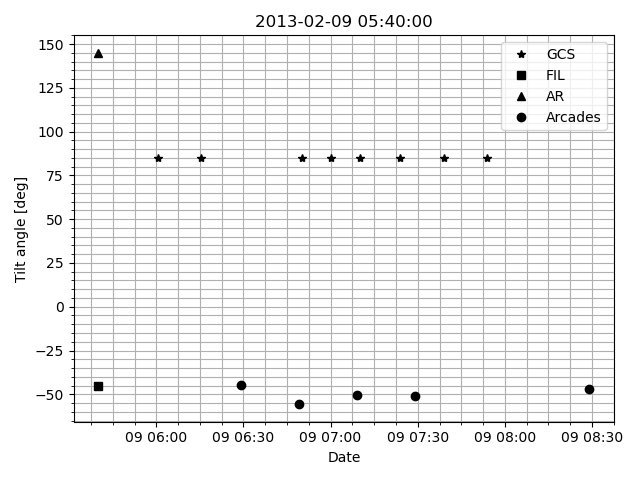
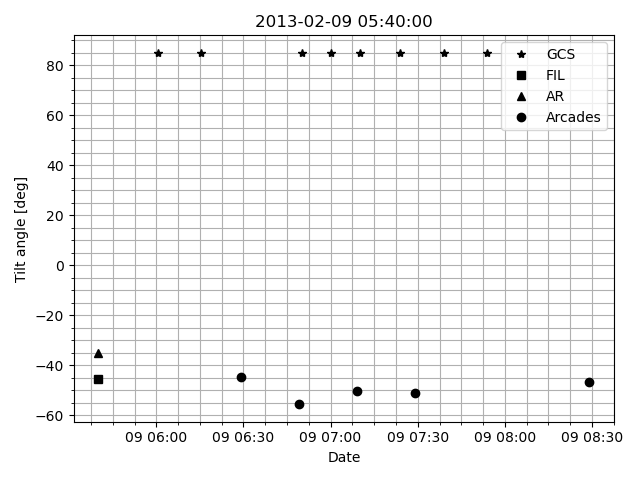
fixed tilt plot

Changed region(s): [[0.0625, 0.5, 0.9688, 0.875], [0.0625, 0.0625, 0.7812, 0.2812], [0.0625, 0.3125, 0.9688, 0.4688]]

diff --git a/tools/iglesias/compare_all_prop.py b/tools/iglesias/compare_all_prop.py
@@ -164,8 +164,8 @@ for cd in gcs_dates:
     plt.close()
 
 # tilt angles
-gcs_ind_to_use=-1 # which gcs value to use in the scatter plot, -1 is the last one in time
-arcade_ind_to_use=-1 # which arcade value to use in the scatter plot, -1 is the last one in time
+gcs_ind_to_use=0#-1 # which gcs value to use in the scatter plot, -1 is the last one in time
+arcade_ind_to_use=0#-1 # which arcade value to use in the scatter plot, -1 is the last one in time
 
 df_ar['datetimes'] = pd.to_datetime(df_ar['Date'], format='%d/%m/%Y')
 gcs_vs_ar_val = []
@@ -200,6 +200,11 @@ for d in df_fil['date']:
         if len(y2) > 0:
             y2 = np.array(y2).astype(float)[0]
             y2 += correct_ang(np.median(y2),np.median(gcs_val), do=do_tilt_corr)
+            # put y2 in -90 to 90 range
+            if y2 > 90:
+                y2 = y2 - 180
+            if y2 < -90:
+                y2 = y2 + 180
             plt.plot(x2, y2, '^k', label='AR')
             gcs_vs_ar_val.append([gcs_val[arcade_ind_to_use], y2, d_str])
             #gcs_times = np.concatenate((gcs_times, [i.to_pydatetime() for i in x2]), axis=None)
@@ -254,6 +259,14 @@ plt.scatter(gcs_vs_ar_val_arr[:, 1], gcs_vs_ar_val_arr[:, 0], color='r', label='
 plt.scatter(gcs_vs_fil_all_arr[:, 1], gcs_vs_fil_all_arr[:, 0], color='b', label='gcs vs fil')
 plt.scatter(gcs_vs_arcades_all_arr[:, 1], gcs_vs_arcades_all_arr[:, 0], color='g', label='gcs vs arcades')
 
+plt.xlabel('fil/ar/arcade [deg]')
+plt.ylabel('gcs [deg]') 
+plt.tight_layout()
+plt.xlim([-110, 110])
+plt.ylim([-110, 110])
+plt.grid(which='both')
+plt.legend()
+plt.savefig(opath+'/gcs_tilt_vs_fil-ar-arcade_clean.png') 
 # annotate dates in each point
 # for i, txt in enumerate(gcs_vs_ar_val):
 #     plt.annotate(txt[2], (gcs_vs_ar_val_arr[i, 1], gcs_vs_ar_val_arr[i, 0]))
@@ -261,16 +274,8 @@ plt.scatter(gcs_vs_arcades_all_arr[:, 1], gcs_vs_arcades_all_arr[:, 0], color='g
 #     plt.annotate(txt[2], (gcs_vs_fil_all_arr[i, 1], gcs_vs_fil_all_arr[i, 0]))
 for i, txt in enumerate(gcs_vs_arcades_all):
     plt.annotate(txt[2], (gcs_vs_arcades_all_arr[i, 1], gcs_vs_arcades_all_arr[i, 0]))
-
-plt.xlabel('fil/ar/arcade [deg]')
-plt.ylabel('gcs [deg]')  
 # grid for minor ticks behind the plot
 plt.minorticks_on()
-plt.grid(which='both')
-plt.tight_layout()
-#plt.xlim([-110, 110])
-#plt.ylim([-110, 110])
-plt.legend()
 plt.savefig(opath+'/gcs_tilt_vs_fil-ar-arcade.png')
 plt.close()
 
